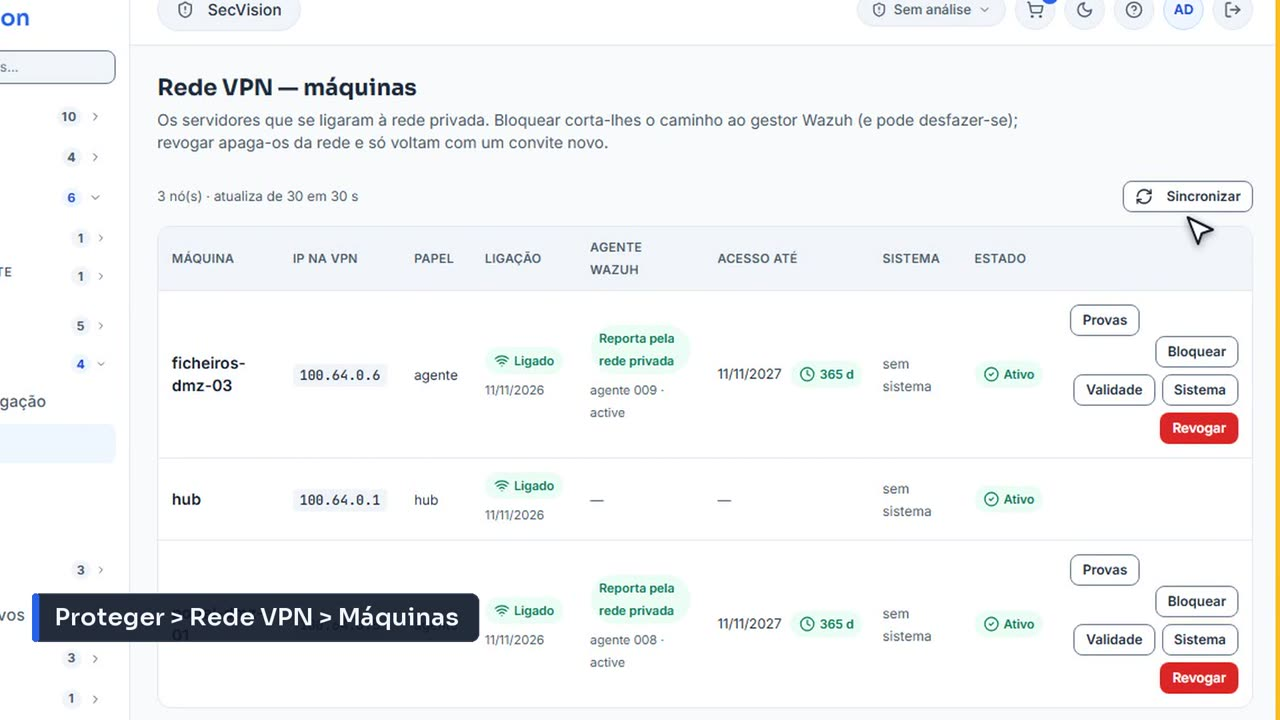
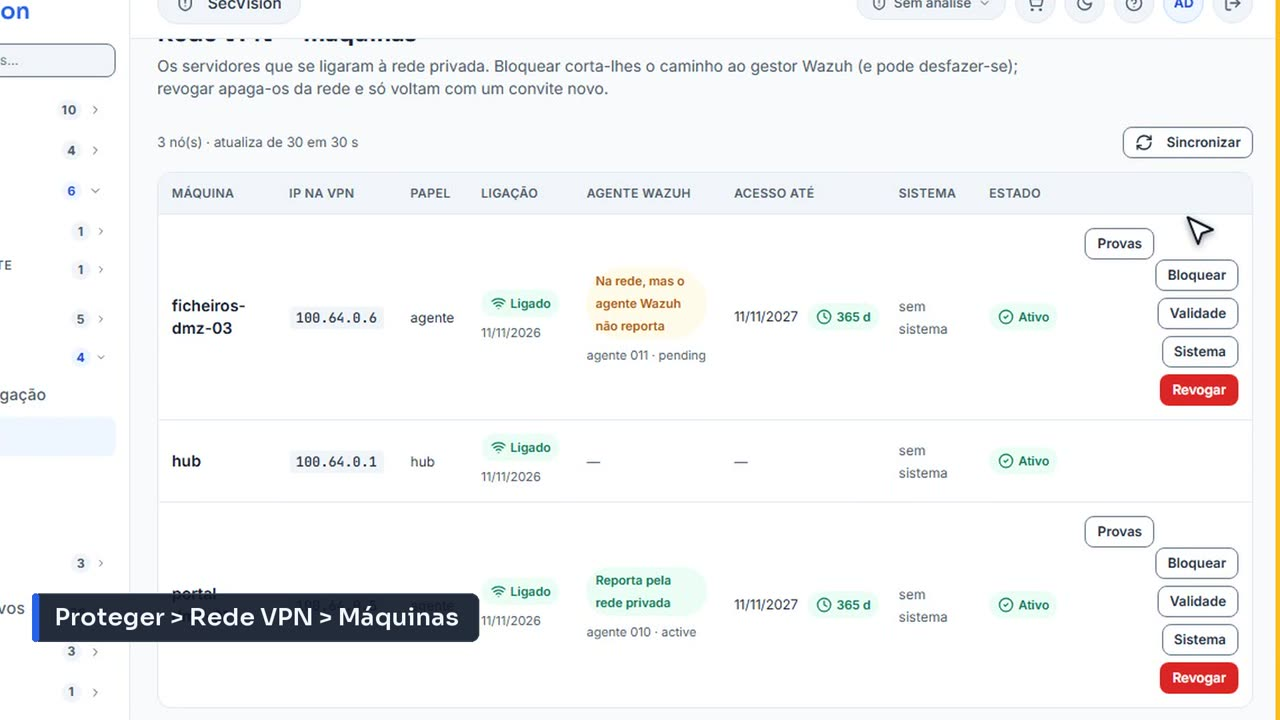
docs(wazuh): 511 refeito — a validade muda de facto e o Wazuh mostra o agente desligado
A pagina Gerir as maquinas ganha a figura do agente desligado e os fotogramas do video novo; a pagina
Ligar um servidor diz o que o operador ve.

Claude-Session: https://claude.ai/code/session_011G2GeUxV5d8GS3KFfVAZqD

diff --git a/docs/wazuh/manage-machines.md b/docs/wazuh/manage-machines.md
@@ -73,16 +73,22 @@ Bloquear muda a etiqueta do servidor na rede para uma que não tem nenhuma regra
 **Wazuh** > **Endpoints** > **Agents**
 
 ```{figure} /_static/img/511-gerir-as-maquinas-da-rede-vpn/04.jpg
-:alt: Wazuh > Endpoints > Agents: o agente desligado
+:alt: Wazuh > Endpoints > Agents: o agente ainda ativo, com o tempo acelerado
 
-Ecrã **Wazuh** > **Endpoints** > **Agents**, com o agente desligado.
+Ecrã **Wazuh** > **Endpoints** > **Agents**, durante a espera (acelerada no vídeo).
 ```
 
 No painel do Wazuh o agente ainda aparece ativo logo a seguir ao bloqueio, porque o Wazuh só dá por falta de um agente quando deixa de receber os seus sinais de vida, e por omissão espera dez minutos (`agents_disconnection_time`). No vídeo, a espera é acelerada. Passado esse tempo, o agente passa a **Disconnected**. Do ponto de vista do Wazuh, o servidor deixou de existir; do ponto de vista do administrador, foi uma decisão, e não uma avaria.
 
+```{figure} /_static/img/511-gerir-as-maquinas-da-rede-vpn/05.jpg
+:alt: Wazuh > Endpoints > Agents: o agente portal-dmz-01 desligado
+
+O agente **portal-dmz-01** passou a **disconnected**.
+```
+
 ## Desbloquear
 
-```{figure} /_static/img/511-gerir-as-maquinas-da-rede-vpn/05.jpg
+```{figure} /_static/img/511-gerir-as-maquinas-da-rede-vpn/06.jpg
 :alt: O servidor desbloqueado na lista de máquinas
 
 O servidor desbloqueado.
@@ -90,7 +96,7 @@ O servidor desbloqueado.
 
 Para desfazer, clique em **Desbloquear**. A etiqueta volta ao que era e o caminho reabre. Ninguém tem de ir ao servidor.
 
-```{figure} /_static/img/511-gerir-as-maquinas-da-rede-vpn/06.jpg
+```{figure} /_static/img/511-gerir-as-maquinas-da-rede-vpn/07.jpg
 :alt: Wazuh > Endpoints > Agents: o agente ativo outra vez
 
 O Wazuh volta a ver o servidor.
@@ -100,7 +106,7 @@ O agente, que nunca deixou de tentar ligar-se, volta a ligar-se sozinho, e o pai
 
 ## Validade do acesso
 
-```{figure} /_static/img/511-gerir-as-maquinas-da-rede-vpn/07.jpg
+```{figure} /_static/img/511-gerir-as-maquinas-da-rede-vpn/08.jpg
 :alt: Validade do acesso do servidor
 
 A validade do acesso.
@@ -114,7 +120,7 @@ O Headscale não faz expirar as máquinas etiquetadas, e por isso é o SecVision
 
 ## Recolher provas
 
-```{figure} /_static/img/511-gerir-as-maquinas-da-rede-vpn/08.jpg
+```{figure} /_static/img/511-gerir-as-maquinas-da-rede-vpn/09.jpg
 :alt: Recolher provas do servidor
 
 Recolher provas.
@@ -127,7 +133,7 @@ Recolher provas.
 
 As provas servem para um incidente ou para uma auditoria: o que o Wazuh sabe deste servidor. O SecVision só lê: não corre nada no servidor, porque o agente foi instalado com os comandos remotos bloqueados. O que se recolhe é o que o Wazuh já tinha.
 
-```{figure} /_static/img/511-gerir-as-maquinas-da-rede-vpn/09.jpg
+```{figure} /_static/img/511-gerir-as-maquinas-da-rede-vpn/10.jpg
 :alt: Provas recolhidas, com a impressão digital
 
 As provas recolhidas.
@@ -137,7 +143,7 @@ Cada recolha fica guardada com a sua impressão digital (sha256), o nome do serv
 
 ## Revogar
 
-```{figure} /_static/img/511-gerir-as-maquinas-da-rede-vpn/10.jpg
+```{figure} /_static/img/511-gerir-as-maquinas-da-rede-vpn/11.jpg
 :alt: Revogar a máquina: confirmação com o nome
 
 Revogar a máquina.

diff --git a/docs/wazuh/connect-a-server.md b/docs/wazuh/connect-a-server.md
@@ -11,6 +11,8 @@ Esta página liga um servidor de uma zona isolada ao Wazuh, do princípio ao fim
 
 **Proteger** > **Rede VPN** > **Convites**
 
+O operador vê a lista de ficheiros registados e as chaves de registo; registar ficheiros e gerar comandos de instalação é do administrador do SecVision.
+
 ```{figure} /_static/capturas/vpn-convites/menu.jpg
 :alt: Menu lateral: Proteger > Rede VPN > Convites
 
